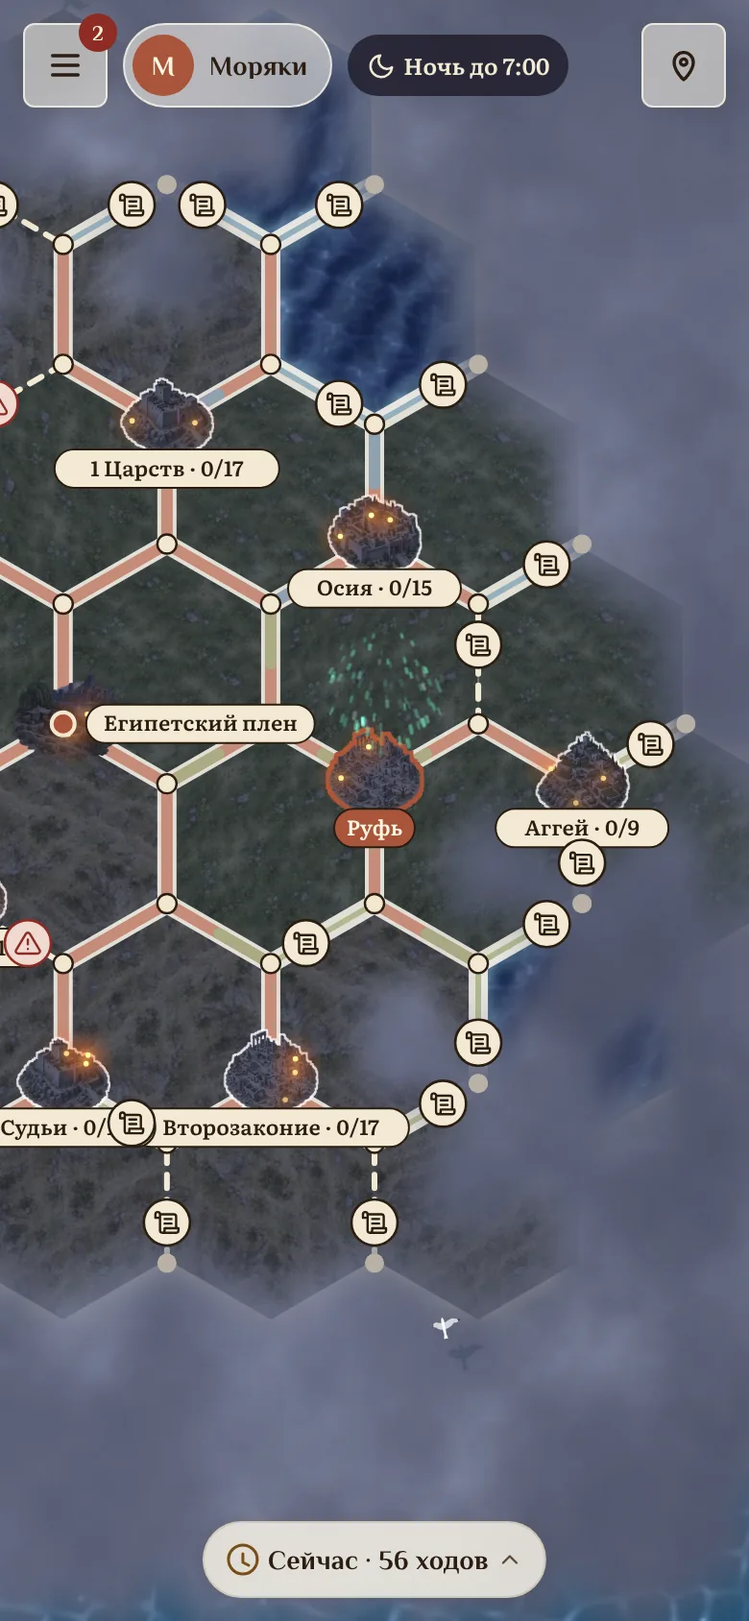
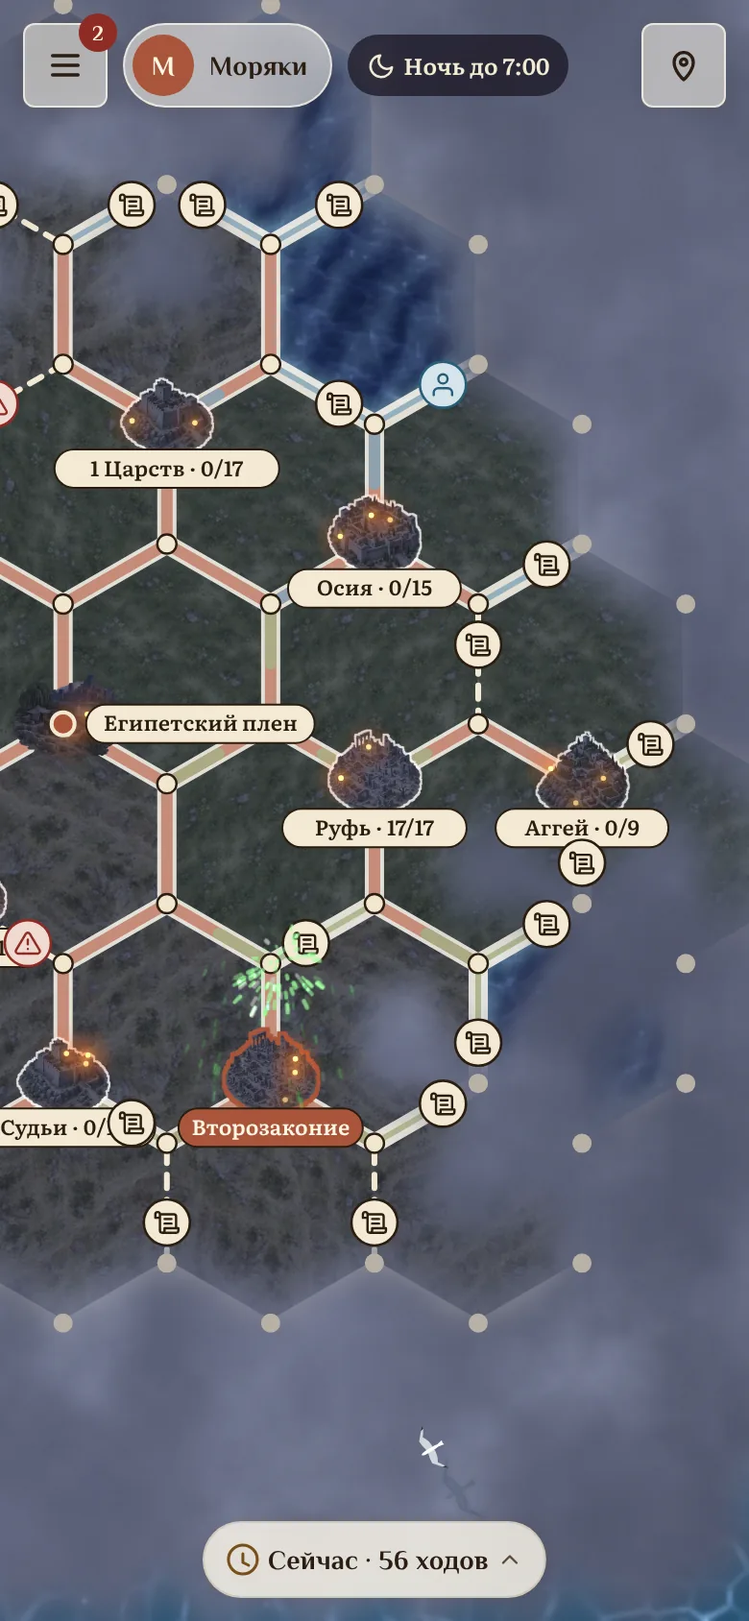
Снимки инструкции пересняты днём; предпросмотр ?tod= красит и подписи
previewPhase() перекрывает фазу для плашки ночи, пометки в листе дела и
кнопки разведчика при предпросмотре (правила по-прежнему у сервера).
Все картинки «Как играть» пересняты; на снимке входа вступление скрыто.

Claude-Session: https://claude.ai/code/session_01GYZTpVpHB6EzyvMrXyiWEP

diff --git a/apps/web/src/pages/TeamPage.tsx b/apps/web/src/pages/TeamPage.tsx
@@ -6,7 +6,7 @@ import { useAuth } from "../lib/auth";
 import { useCoalesced, useGameEvents, type MapPush } from "../lib/useGameEvents";
 import { applyPatch } from "fast-json-patch";
 import { TeamMap, type MarkPoint } from "./TeamMap";
-import { useStorm } from "../lib/daytime";
+import { previewPhase, useStorm } from "../lib/daytime";
 import { TimelineDock } from "./Timeline";
 import { mapAt, teamMoves } from "./TeamHistory";
 import { CityPopup } from "./CityPopup";
@@ -556,7 +556,9 @@ export function TeamPage() {
   const ourTasks = map.tasks.filter((tk) => tk.status === "TAKEN" || tk.status === "SUBMITTED" || tk.status === "REJECTED").sort(byTitle);
   // Свободные дела на карте — в разделе «Дела» с кнопкой «Взять» у каждого, чтобы не искать метку на карте (решение владельца 05.10).
   const freeTasks = map.tasks.filter((tk) => tk.status === "OPEN").sort(byTitle);
-  const canTakeNow = map.daytime?.phase !== "night" || Boolean(map.daytime?.tasksOpen);
+  // Фаза для подписей: предпросмотр `?tod=` (снимки инструкции) перекрывает серверную, правила считает сервер.
+  const phase = previewPhase() ?? map.daytime?.phase;
+  const canTakeNow = phase !== "night" || Boolean(map.daytime?.tasksOpen);
   const donationText = (dm: number | null | undefined) => dm ? `${t("пожертвование от {min} {cur}", { min: dm, cur: currency })}`.trim() : "";
   const landingTask = landingId ? map.tasks.find((tk) => tk.id === landingId && tk.landing) ?? null : null;
   const incoming = passages?.incoming.filter((r) => r.status === "PENDING") ?? [];
@@ -819,8 +821,8 @@ export function TeamPage() {
             <TeamAvatar name={team.name} color={team.color} avatarId={team.avatarId} /><span className="name">{team.name}</span>
           </button>
           {/* Время суток (решение владельца 03.10): ночью только карта, утром отправляют вызов — подсказка у названия команды. */}
-          {map?.daytime?.phase === "night" && <span className="hud-tod night" title={t("Ночь: города спят, дела и испытания ждут утра")}><Icon name="moon" />{t("Ночь до 7:00")}</span>}
-          {map?.daytime?.phase === "morning" && <span className="hud-tod morning" title={t("Утро: вызов на город отправляют на проверку до 9:00")}><Icon name="sun" />{t("Утро до 9:00")}</span>}
+          {phase === "night" && <span className="hud-tod night" title={t("Ночь: города спят, дела и испытания ждут утра")}><Icon name="moon" />{t("Ночь до 7:00")}</span>}
+          {phase === "morning" && <span className="hud-tod morning" title={t("Утро: вызов на город отправляют на проверку до 9:00")}><Icon name="sun" />{t("Утро до 9:00")}</span>}
         </div>
         {standings?.status === "FINISHED" && (
           <div className="finish-banner" role="status"><Icon name="trophy" /><span>{winner ? t("Игра завершена: победила «{team}»", { team: winner }) : t("Игра завершена")}</span></div>
@@ -845,8 +847,8 @@ export function TeamPage() {
               <p className="muted">{t("Дороги с делом сюда пока нет.")}</p>
               {pk && <div className="note info"><Icon name="telescope" /><span>{pk === "CITY" ? t("Разведано: там город.") : t("Разведано: там развилка.")}</span></div>}
               {error && <p className="error" role="alert">{error}</p>}
-              {map?.daytime?.phase === "night" && <div className="note info night-note"><Icon name="moon" /><span>{t("Ночь: разведка ждёт утра, с 7:00 по местному времени.")}</span></div>}
-              {me?.gameRole === "SCOUT" && !pk && map?.daytime?.phase !== "night" && <div className="actions"><button type="button" className="secondary" disabled={busy} onClick={() => void peek(frontierKey)}><Icon name="telescope" />{t("Разведать")}</button><Help>{t("раз в неделю")}</Help></div>}
+              {phase === "night" && <div className="note info night-note"><Icon name="moon" /><span>{t("Ночь: разведка ждёт утра, с 7:00 по местному времени.")}</span></div>}
+              {me?.gameRole === "SCOUT" && !pk && phase !== "night" && <div className="actions"><button type="button" className="secondary" disabled={busy} onClick={() => void peek(frontierKey)}><Icon name="telescope" />{t("Разведать")}</button><Help>{t("раз в неделю")}</Help></div>}
               {me?.gameRole !== "SCOUT" && !pk && <p className="hint">{t("Разведать этот перекрёсток может разведчик команды.")}</p>}
             </Sheet>
           );
@@ -860,7 +862,7 @@ export function TeamPage() {
           const peeked = peekedKind(task.toKey);
           // Разведчик открывает любую точку на краю тумана, взято дело на сторону или нет (решение владельца 02.10).
           const canScout = me?.gameRole === "SCOUT" && !peeked && !(map?.revealed ?? []).some((n) => n.key === task.toKey);
-          const night = map?.daytime?.phase === "night";
+          const night = phase === "night";
           // Взять дело можно до полуночи, как и решать задания города (решение владельца 04.10); сдача и разведка — с 7:00.
           const canTake = !night || Boolean(map?.daytime?.tasksOpen);
           const scoutBtn = canScout && !night && <><button type="button" className="secondary" disabled={busy} onClick={() => void peek(task.toKey)}><Icon name="telescope" />{t("Разведать")}</button><Help>{t("раз в неделю")}</Help></>;

diff --git a/apps/web/src/lib/en/changelog.ts b/apps/web/src/lib/en/changelog.ts
@@ -1,5 +1,6 @@
 /** EN-строки раздела «Что нового». Ключ — русская строка из content/changelog.ts. */
 export const CHANGELOG_EN: Record<string, string> = {
+  "Картинки «Как играть» пересняты днём: плашки ночи на дневных экранах больше нет.": "The “How to play” pictures were reshot by day: no more night badge on daytime screens.",
   "Вступление «о чём игра»: десять экранов с картинками для тех, кто зашёл впервые, ещё до входа; закрывается крестиком, показывается один раз на устройстве, потом открывается кнопкой «О игре» на странице входа и из «Как играть».": "An “about the game” intro: ten illustrated screens for first-time visitors, before signing in; closes with a cross, shows once per device, afterwards opens from the “About the game” button on the sign-in page and from “How to play”.",
   "В листе дела у участника появился значок карты, как у администратора: карта центрируется на стороне дела.": "The member’s deed sheet got a map icon, as the admin has: the map centres on the deed’s side.",
   "В чужом городе подсказка о проходе говорит точно: если в команде есть посол, запрос отправляет он.": "In a rival city the passage hint is precise: if the team has an ambassador, the request is sent by them.",

diff --git a/apps/web/src/content/changelog.ts b/apps/web/src/content/changelog.ts
@@ -6,6 +6,7 @@ export interface ChangeDay { date: string; items: string[] }
 
 export const CHANGELOG: ChangeDay[] = [
   { date: "2026-10-25", items: [
+    "Картинки «Как играть» пересняты днём: плашки ночи на дневных экранах больше нет.",
     "Вступление «о чём игра»: десять экранов с картинками для тех, кто зашёл впервые, ещё до входа; закрывается крестиком, показывается один раз на устройстве, потом открывается кнопкой «О игре» на странице входа и из «Как играть».",
     "В листе дела у участника появился значок карты, как у администратора: карта центрируется на стороне дела.",
     "В чужом городе подсказка о проходе говорит точно: если в команде есть посол, запрос отправляет он.",

diff --git a/apps/web/src/lib/daytime.ts b/apps/web/src/lib/daytime.ts
@@ -1,5 +1,5 @@
 import { useEffect, useMemo, useRef, useState } from "react";
-import { dayLight, dayLightAt, stormState, type DayLight, type DayPhase, type StormSlot } from "@lotw/domain";
+import { dayLight, dayLightAt, stormState, type DayLight, type DayPhase, type StormSlot, phaseAt } from "@lotw/domain";
 
 /**
  * Освещение карты по времени суток (решение владельца 03.10): утро 7–9, день 9–18, вечер 18–22, ночь 22–7 по поясу игры.
@@ -108,6 +108,12 @@ function previewMinutes(): number | null {
   if (v in fixed) return fixed[v]!;
   const hm = /^(\d{1,2}):(\d{2})$/.exec(v);
   return hm ? Number(hm[1]) * 60 + Number(hm[2]) : null;
+}
+
+/** Фаза предпросмотра `?tod=` для подписей интерфейса (плашка ночи, пометка в листе дела); без предпросмотра — null. Правила не трогает. */
+export function previewPhase(): DayPhase | null {
+  const m = previewMinutes();
+  return m === null ? null : phaseAt(m);
 }
 
 /**

diff --git a/docs/LANDS_OF_THE_WORD.md b/docs/LANDS_OF_THE_WORD.md
@@ -404,6 +404,7 @@
   - ✅ **Дела с расходами — за свои деньги (решение владельца 04.10).** В описаниях дел набора, где надо что-то купить («Продукты одинокой вдове или пожилому человеку», «Угостить человека завтраком, обедом или ужином», «Приготовить еду для семьи, где болеют или родился ребёнок»), добавлена фраза: «Расходы — из своих денег: заработанных, отложенных или сэкономленных, а не взятых у родителей ради этого дела». В идущих играх нередактированные дела обновляются синхронизацией набора.
   - ⏸ **Карта на холсте отложена (решение владельца 12.10, вечер: «не нужно катить в прод, отменяем эти правки»).** Четыре круга работы над плавностью (анимированный зум, дороги, сцена, спрайты гексов и растр берега в координатах карты, бенчмарк `scripts/perf-map-bench.mjs`) сохранены в ветке `map-canvas` (коммит 906c028) и сняты с линии прода и стенда; владелец оценил масштабирование как верное, но рывки на его устройствах остались. Стенд снова повторяет прод.
   - ✅ **Мир на срок (решение владельца 22.10).** Предложение мира — с выбором срока: 7, 14, 30 дней или «до конца игры» (`Peace.days`, 0 — до конца игры; `Peace.until` ставится при принятии; миграция `20261022110000_peace_term`). Пока срок не вышел, `break` отвечает 409 — вызовы и осады между командами технически невозможны; «до конца игры» не расторгается вовсе. По истечении срока мир кончается сам (`expirePeaces`: раз в минуту в общем проходе `app.ts` и при каждом чтении мира), с новостью всем `peace_ended` и уведомлением обеим командам. Миры без срока из старых партий (`days = null`, в «Осени» мир «Живые камни» — «Бич народов») остаются расторжимыми, как раньше. В интерфейсе: кнопка «мир» открывает шторку, где команда сама вводит число дней (1–365, по умолчанию 7; сначала были четыре готовые кнопки, владелец в тот же день попросил свободный ввод) «до конца игры» владелец исключил в тот же день: API принимает только 1–365 дней (значение 0 в базе осталось как возможность на будущее); у предложения и мира в ряду команд виден срок («предлагает мир на 7 дн.», «мир до 29 окт.»); кнопка «Расторгнуть» только у старого мира. Тест `peaceTerm.test.ts`.
+  - ✅ **Плашка ночи на дневных снимках (владелец 25.10: «карта на скрине дневная, а стоит плашка ночи»).** Снимки делались ночью игры с предпросмотром `?tod=day`, который красил только картинку, а плашка «Ночь до 7:00», пометка ночи в листе дела и кнопка разведчика брали фазу с сервера. Теперь `previewPhase()` в `lib/daytime.ts` перекрывает фазу для подписей `TeamPage` при `?tod=` (правила по-прежнему считает сервер). Все 27 картинок инструкции пересняты `scripts/guide-shots.mjs` (временные пометки в локальной базе: заместитель, морское дело, взятый город — затем возвращены); на снимке входа вступление не показывается (скрипт заранее ставит отметку «уже видел»).
   - ✅ **Вступление «о чём игра» для впервые зашедших (решение владельца 25.10: «красивый стильный лендинг… пролистнув 10 страничек быстро понял, о чём игра… видеть ещё до регистрации… закрыть через аккуратный крестик… второй раз не показывать, даже если не зареган»).** `pages/IntroStory.tsx` + `styles/intro.css`: полноэкранное вступление поверх всего, тёмное тёплое поле с размытой панорамой, десять экранов (панорама с логотипом, карта, дела, города, испытания, команда и роли, живая карта, летопись и служение, администратору, «Начать») с настоящими картинками экранов из `img/guide` в рамке телефона; листание свайпом, стрелками, клавишами ← → и точками; крестик справа вверху и Esc закрывают; на последнем экране «Войти» и «Как играть». Показ: на гостевых страницах (`GuestShell`: вход, приглашение, восстановление) само, если нет отметки `lotw.intro.seen` в localStorage — незарегистрированного иначе узнать не по чему, отметка живёт на устройстве и в этом браузере; в приватном режиме может показаться снова. Постоянный вход: кнопка «О игре» рядом с «Как играть?» на гостевых страницах и кнопка «О игре за десять экранов» вверху «Как играть»; `?intro=1` показывает принудительно. Картинки «улучшенные через AI» не делались: это настоящие экраны игры. Практика по источникам (Apple HIG: вступление быстрое и необязательное; UX Movement, Userpilot: короткая карусель с «пропустить», повтор из справки; TourGuide JS и onboarding-kit: отметка в localStorage с защитой от приватного режима).
   - ✅ **Значок карты в листе дела участника (владелец 25.10: «если открываю дело из летописи, тоже должен быть значок карты… как у админа»).** В шапке листа дела кнопка-значок «Посмотреть на карте» (тот же `secondary sm icon` с `map`, что в отчёте администратора): лист закрывается, возврат в список не делается, карта центрируется на стороне дела (`setFocusTask`).
   - ✅ **Кнопка запроса прохода у капитана (владелец 25.10: «капитан не понимает, где его кнопка запроса прохода через город»).** Не ошибка: по правилу, если в команде назначен посол, запросы другим командам отправляет только он (`canSpeak` в `routes/diplomacy.ts`), капитан и заместитель кнопку не видят. Непонятна была подсказка: общая фраза «запрос отправляет посол, а без посла — капитан или заместитель». Теперь `/my-passages` отдаёт `speakWhy` — ту же причину, что сервер отвечает на запрос («С другими командами говорит посол вашей команды» или «Запросы другим командам отправляет капитан или посол, если он назначен»), и попап города показывает её вместо общей; пока ответ не пришёл, подсказки нет. Имя посла в подсказке владелец не просил — убрано; правило не менялось («про посла ничего не меняем»).
